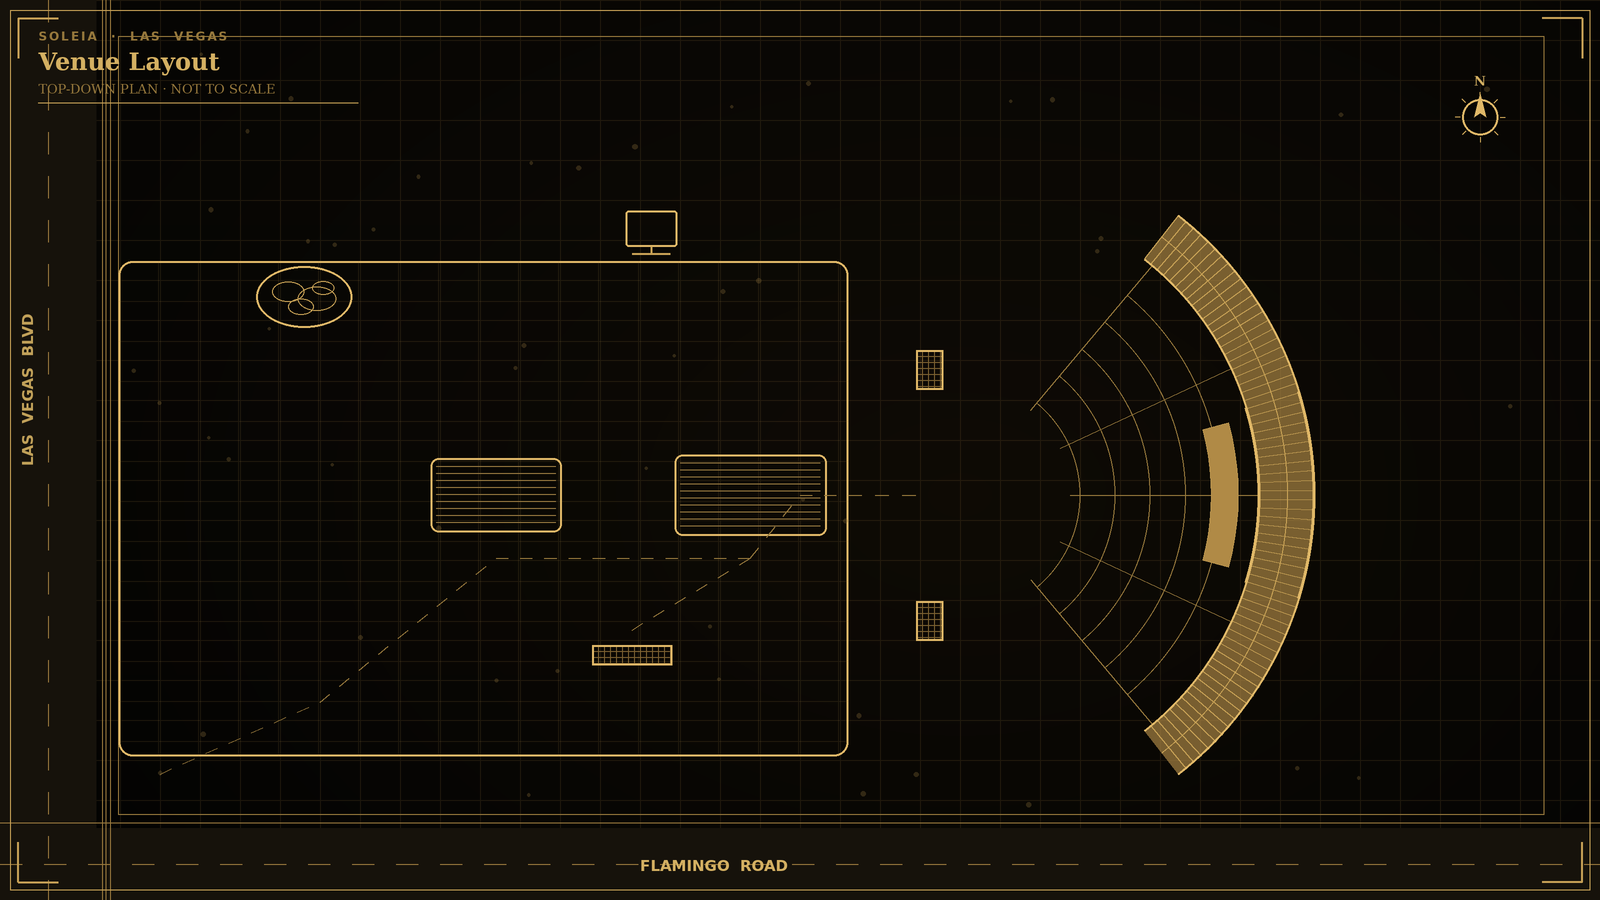
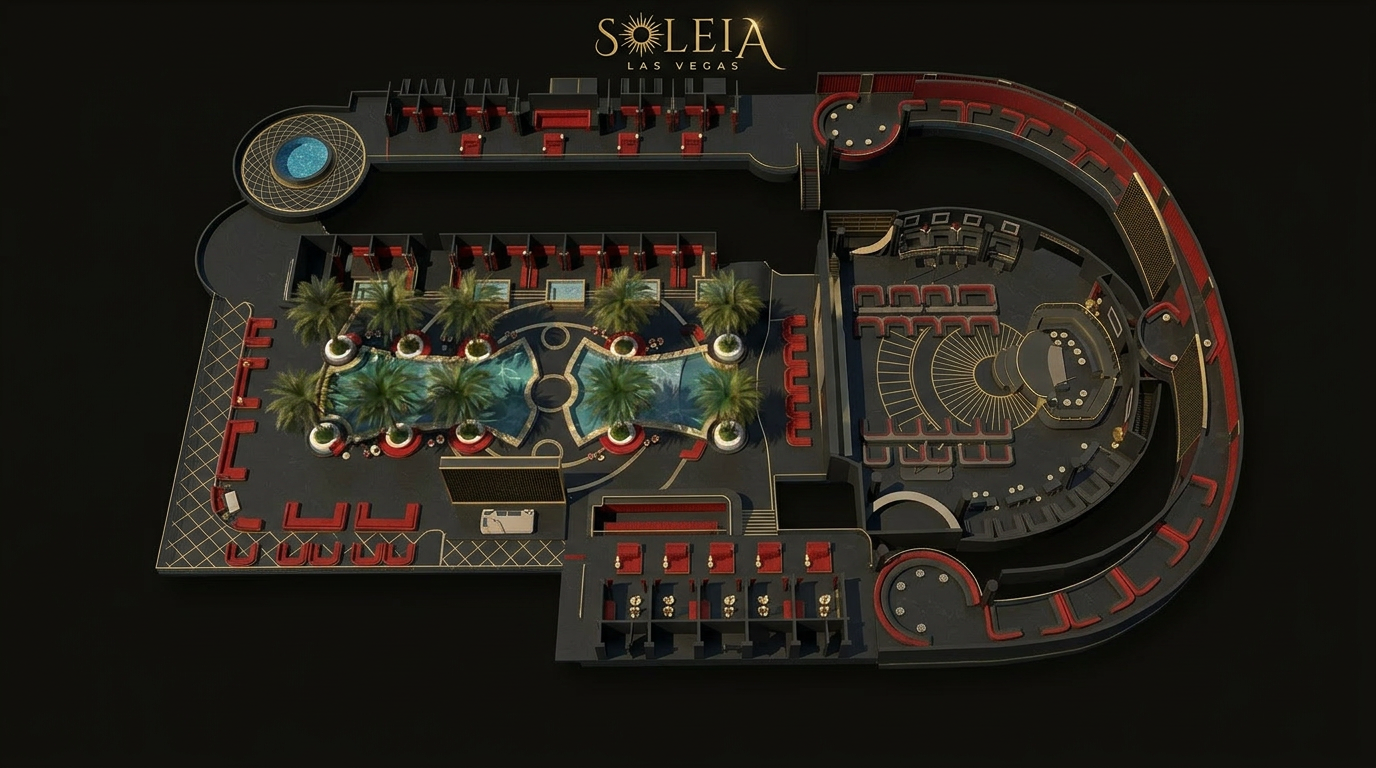
Changes

diff --git a/.lovable/plan.md b/.lovable/plan.md
@@ -1,36 +1,26 @@
 ## Goal
 
-Add a single new pixelmap card titled **"DLV Marquee/Ticker LED Display"** to the Creative Guide → Display Specs view. The card displays a Soleia-styled pixelmap diagram (dark background, gold accents, JetBrains Mono labels) based on the attached reference, with downloadable PNG. No other surfaces (Delivery Guide, Tutorial, Printable PDF) are touched in this pass.
+Swap the Interactive Venue Map's blueprint to the newly uploaded Soleia Las Vegas top-down render, and re-align the clickable zone pins (Right, Main, Left, Arrival, TV) plus location labels (Lily Pad, Pool 2, Pool) to the new layout.
 
-## Specs (from reference)
+## Steps
 
-- **Total LED Video Display:** W 3792 × H 192 px
-- **West Side (Las Vegas Blvd):** W 1608 × H 192 px
-- **South Side (Flamingo Rd):** W 2184 × H 192 px
-- Pixel aspect: 19.75:1 (ultra-wide ribbon)
+1. **Upload new blueprint as light variant**
+   - Take uploaded `venue-layout2.jpg`, save to `public/creative-guide/venue-blueprint-light.png` (overwrite existing).
 
-## Implementation
+2. **Generate dark variant**
+   - Use `imagegen--edit_image` on the new image to produce a dark-mode version (deep charcoal background replacing cream, preserving architectural detail and red accents). Save to `public/creative-guide/venue-blueprint-dark.png`.
 
-### 1. Generate Soleia-styled pixelmap PNG
-Create `public/creative-guide/dlv-marquee-pixelmap.png` using `imagegen` — dark charcoal background, gold (#c49a3c) outlined rectangles, JetBrains Mono dimension labels matching the reference layout (one full ribbon split into West/South segments with bracketed measurements underneath).
-
-### 2. Add DisplayType entry in `src/lib/creativeGuide.ts`
-New entry appended to `DISPLAY_TYPES`:
-- `id: 'dlv-marquee'`
-- `category: 'led'`
-- `name: 'DLV Marquee / Ticker LED Display'`
-- `description: 'Exterior wraparound LED ribbon facing Las Vegas Blvd and Flamingo Rd.'`
-- `videoSpecs`: 3792×192, DXV3 MOV, 30/60fps, 10–30s
-- `graphicSpecs`: 3792×192 PNG (with separate West 1608×192 / South 2184×192 deliverables noted)
-- `dimensions`: `[{label:'Full', 3792, 192}, {label:'West (LV Blvd)', 1608, 192}, {label:'South (Flamingo)', 2184, 192}]`
-- `deliverables`: Full ribbon + West and South segments
-- `creativeNotes`: Ultra-wide aspect — design horizontally with safe edges; avoid centered text-only compositions; West and South segments can run synced or independent
-
-### 3. Add dedicated pixelmap download in `DisplaySpecsView.tsx`
-Since the existing LED card hard-codes a single pixelmap, add a small branch: when `display.id === 'dlv-marquee'`, render its own "Download Pixelmap" button pointing to `/creative-guide/dlv-marquee-pixelmap.png` (no AE template button, no main LED carousel — use a simple `<img>` of the new pixelmap as the card visual).
+3. **Re-tune pin coordinates in `InteractiveVenueMap.tsx`**
+   - In the new image the venue is centered with whitespace margins (~10% left, ~5% right). Recompute `x/y` % for each `ZONE_PINS` entry and `LABEL_PINS` entry against the new image:
+     - `right` (stage-right curves) — upper interior of the right-side amphitheater
+     - `main` (stage wall, 3 IMAG members) — center of the curved stage on the right half
+     - `left` (stage-left curves) — lower interior of the right-side amphitheater
+     - `arrival` (3 outdoor screens) — pinned at the bottom-center outdoor strip + members on the wraparound red ribbon
+     - `tv` — upper cabanas / interior area
+     - Labels: `Lily Pad` (upper-left round pool), `Pool` (large central palm pool), `Pool 2` (second pool basin)
+   - Keep all other logic, mapping cards, and zone metadata untouched.
 
 ## Out of scope
 
-- No changes to Delivery Guide, Tutorial, or Printable Creative Guide PDF
-- No AE template for this display
-- No DB / edge function changes
+- No changes to zone metadata, mapping-card thumbnails (`/zone-cards/*`), display specs, or any other surface.
+- No layout/UI changes to the map controls.
